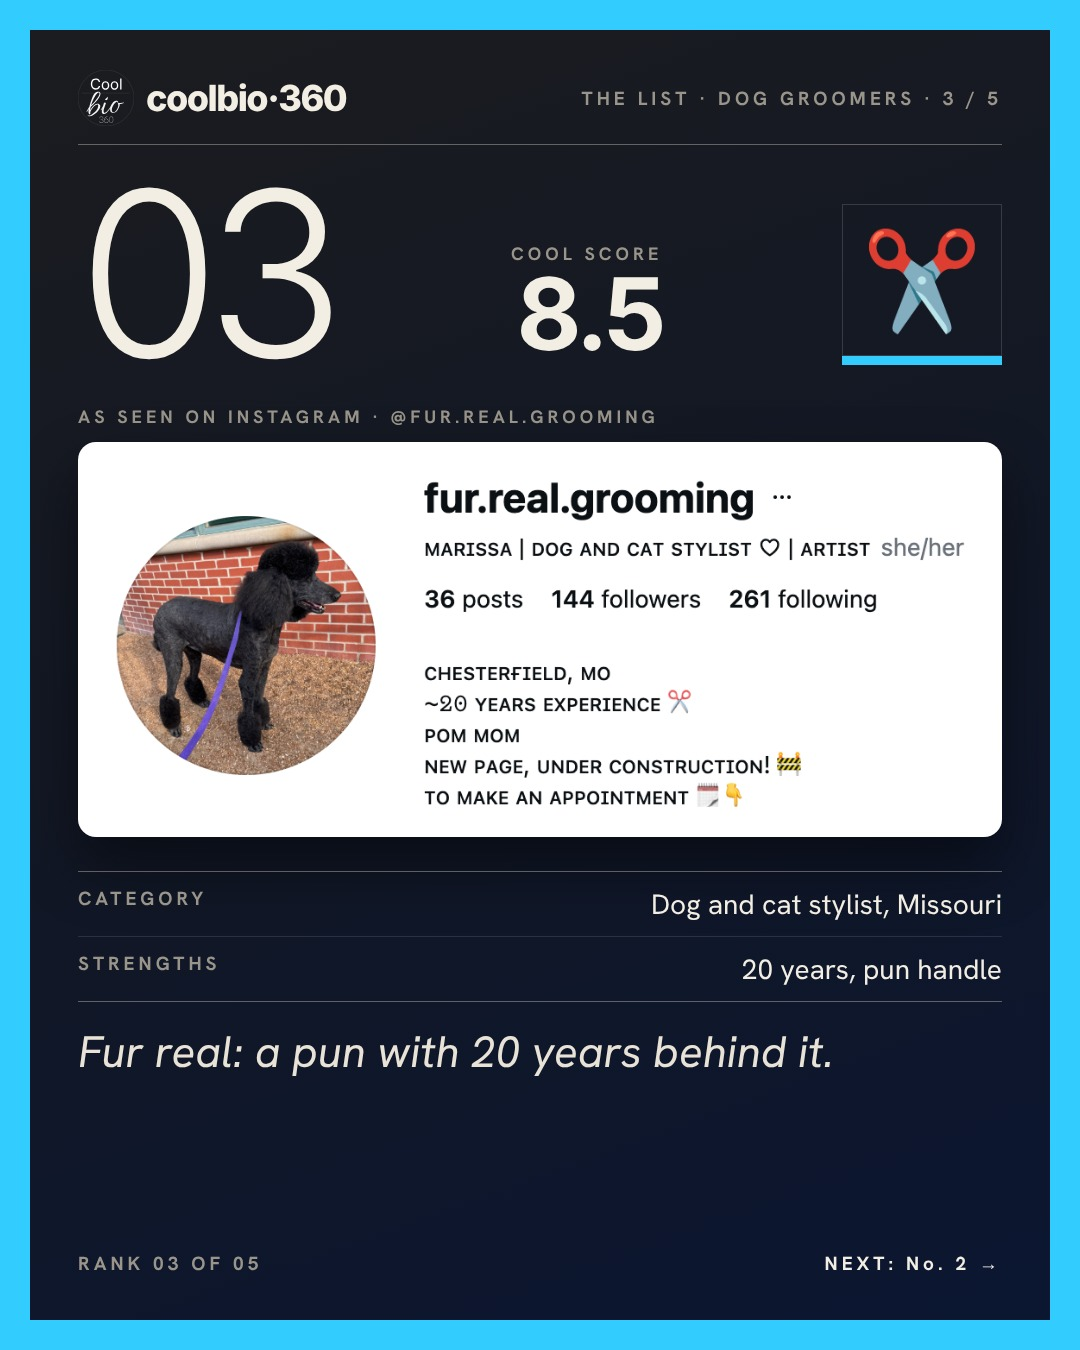
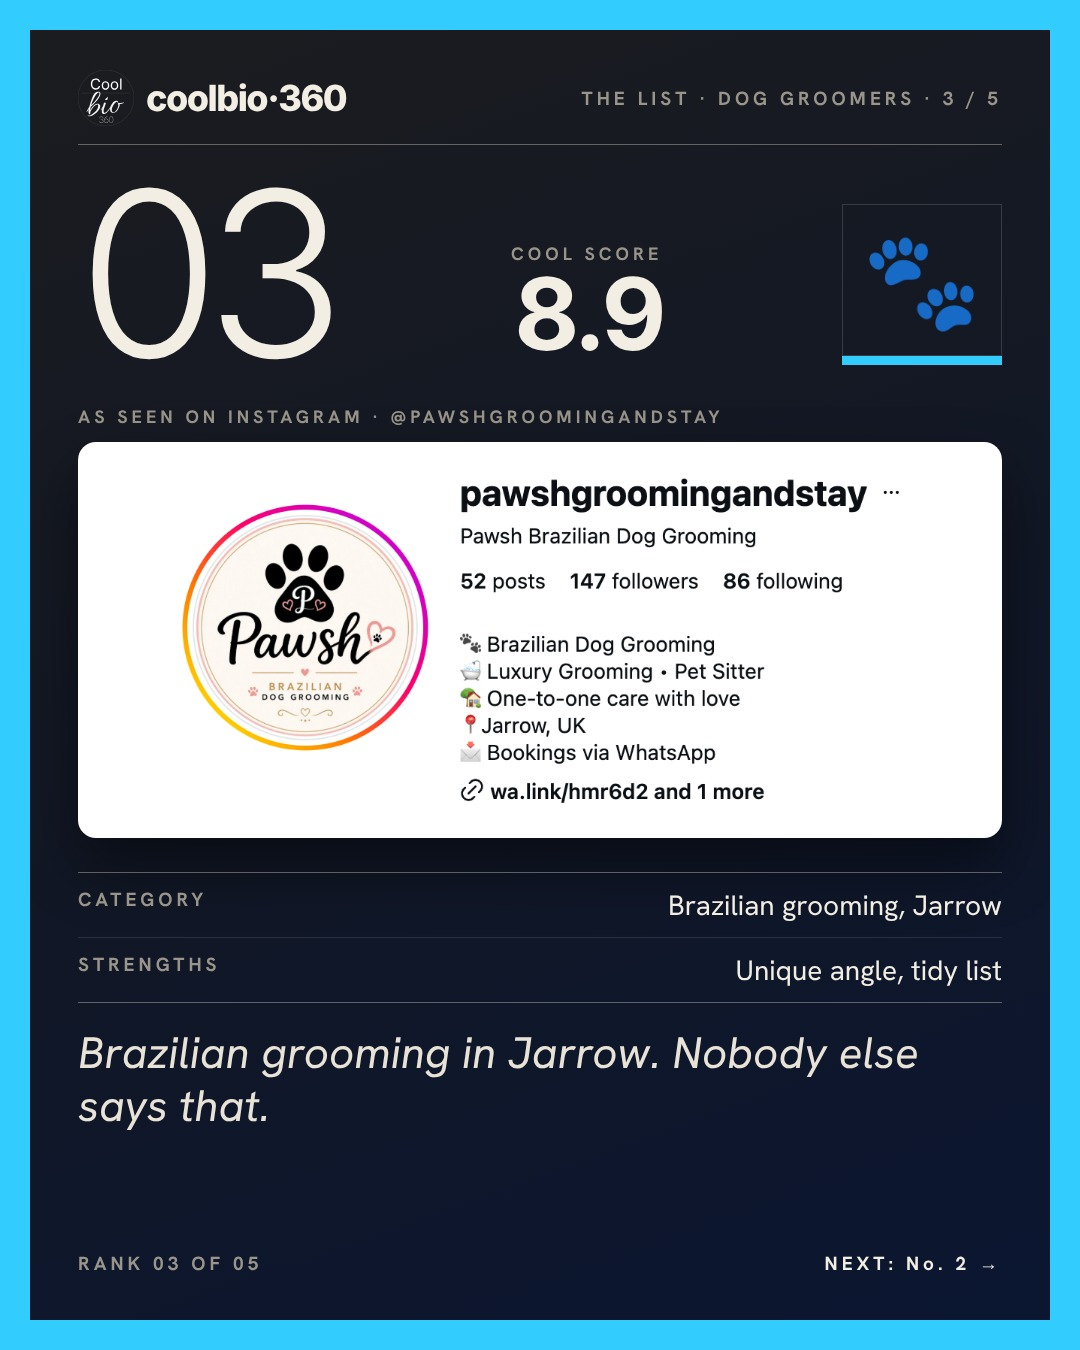
7 liste in revisione sistemate: profili fermi sostituiti con profili attivi (nuovo Cool Score)
Claude-Session: https://claude.ai/code/session_01JL8RT6ZiLuziuRoxLPPpLq

diff --git a/tools/shot.py b/tools/shot.py
@@ -1,0 +1,10 @@
+# Uso: python3 shot.py <screenshot.png> <handle>  -> ritaglia il bianco attorno e salva shots/<handle>.png
+import sys, numpy as np
+from PIL import Image
+im=Image.open(sys.argv[1]).convert('RGB'); a=np.asarray(im).astype(int)
+nonw=a.min(2)<235; ys=np.where(nonw.any(1))[0]; xs=np.where(nonw.any(0))[0]
+box=(max(xs[0]-24,0),max(ys[0]-24,0),min(xs[-1]+24,a.shape[1]),min(ys[-1]+24,a.shape[0]))
+c=im.crop(box)
+if c.size[0]<1380:
+    W=Image.new('RGB',(1380,c.size[1]),'white'); W.paste(c,(0,0)); c=W
+c.save(f'shots/{sys.argv[2]}.png'); print(sys.argv[2],c.size)
